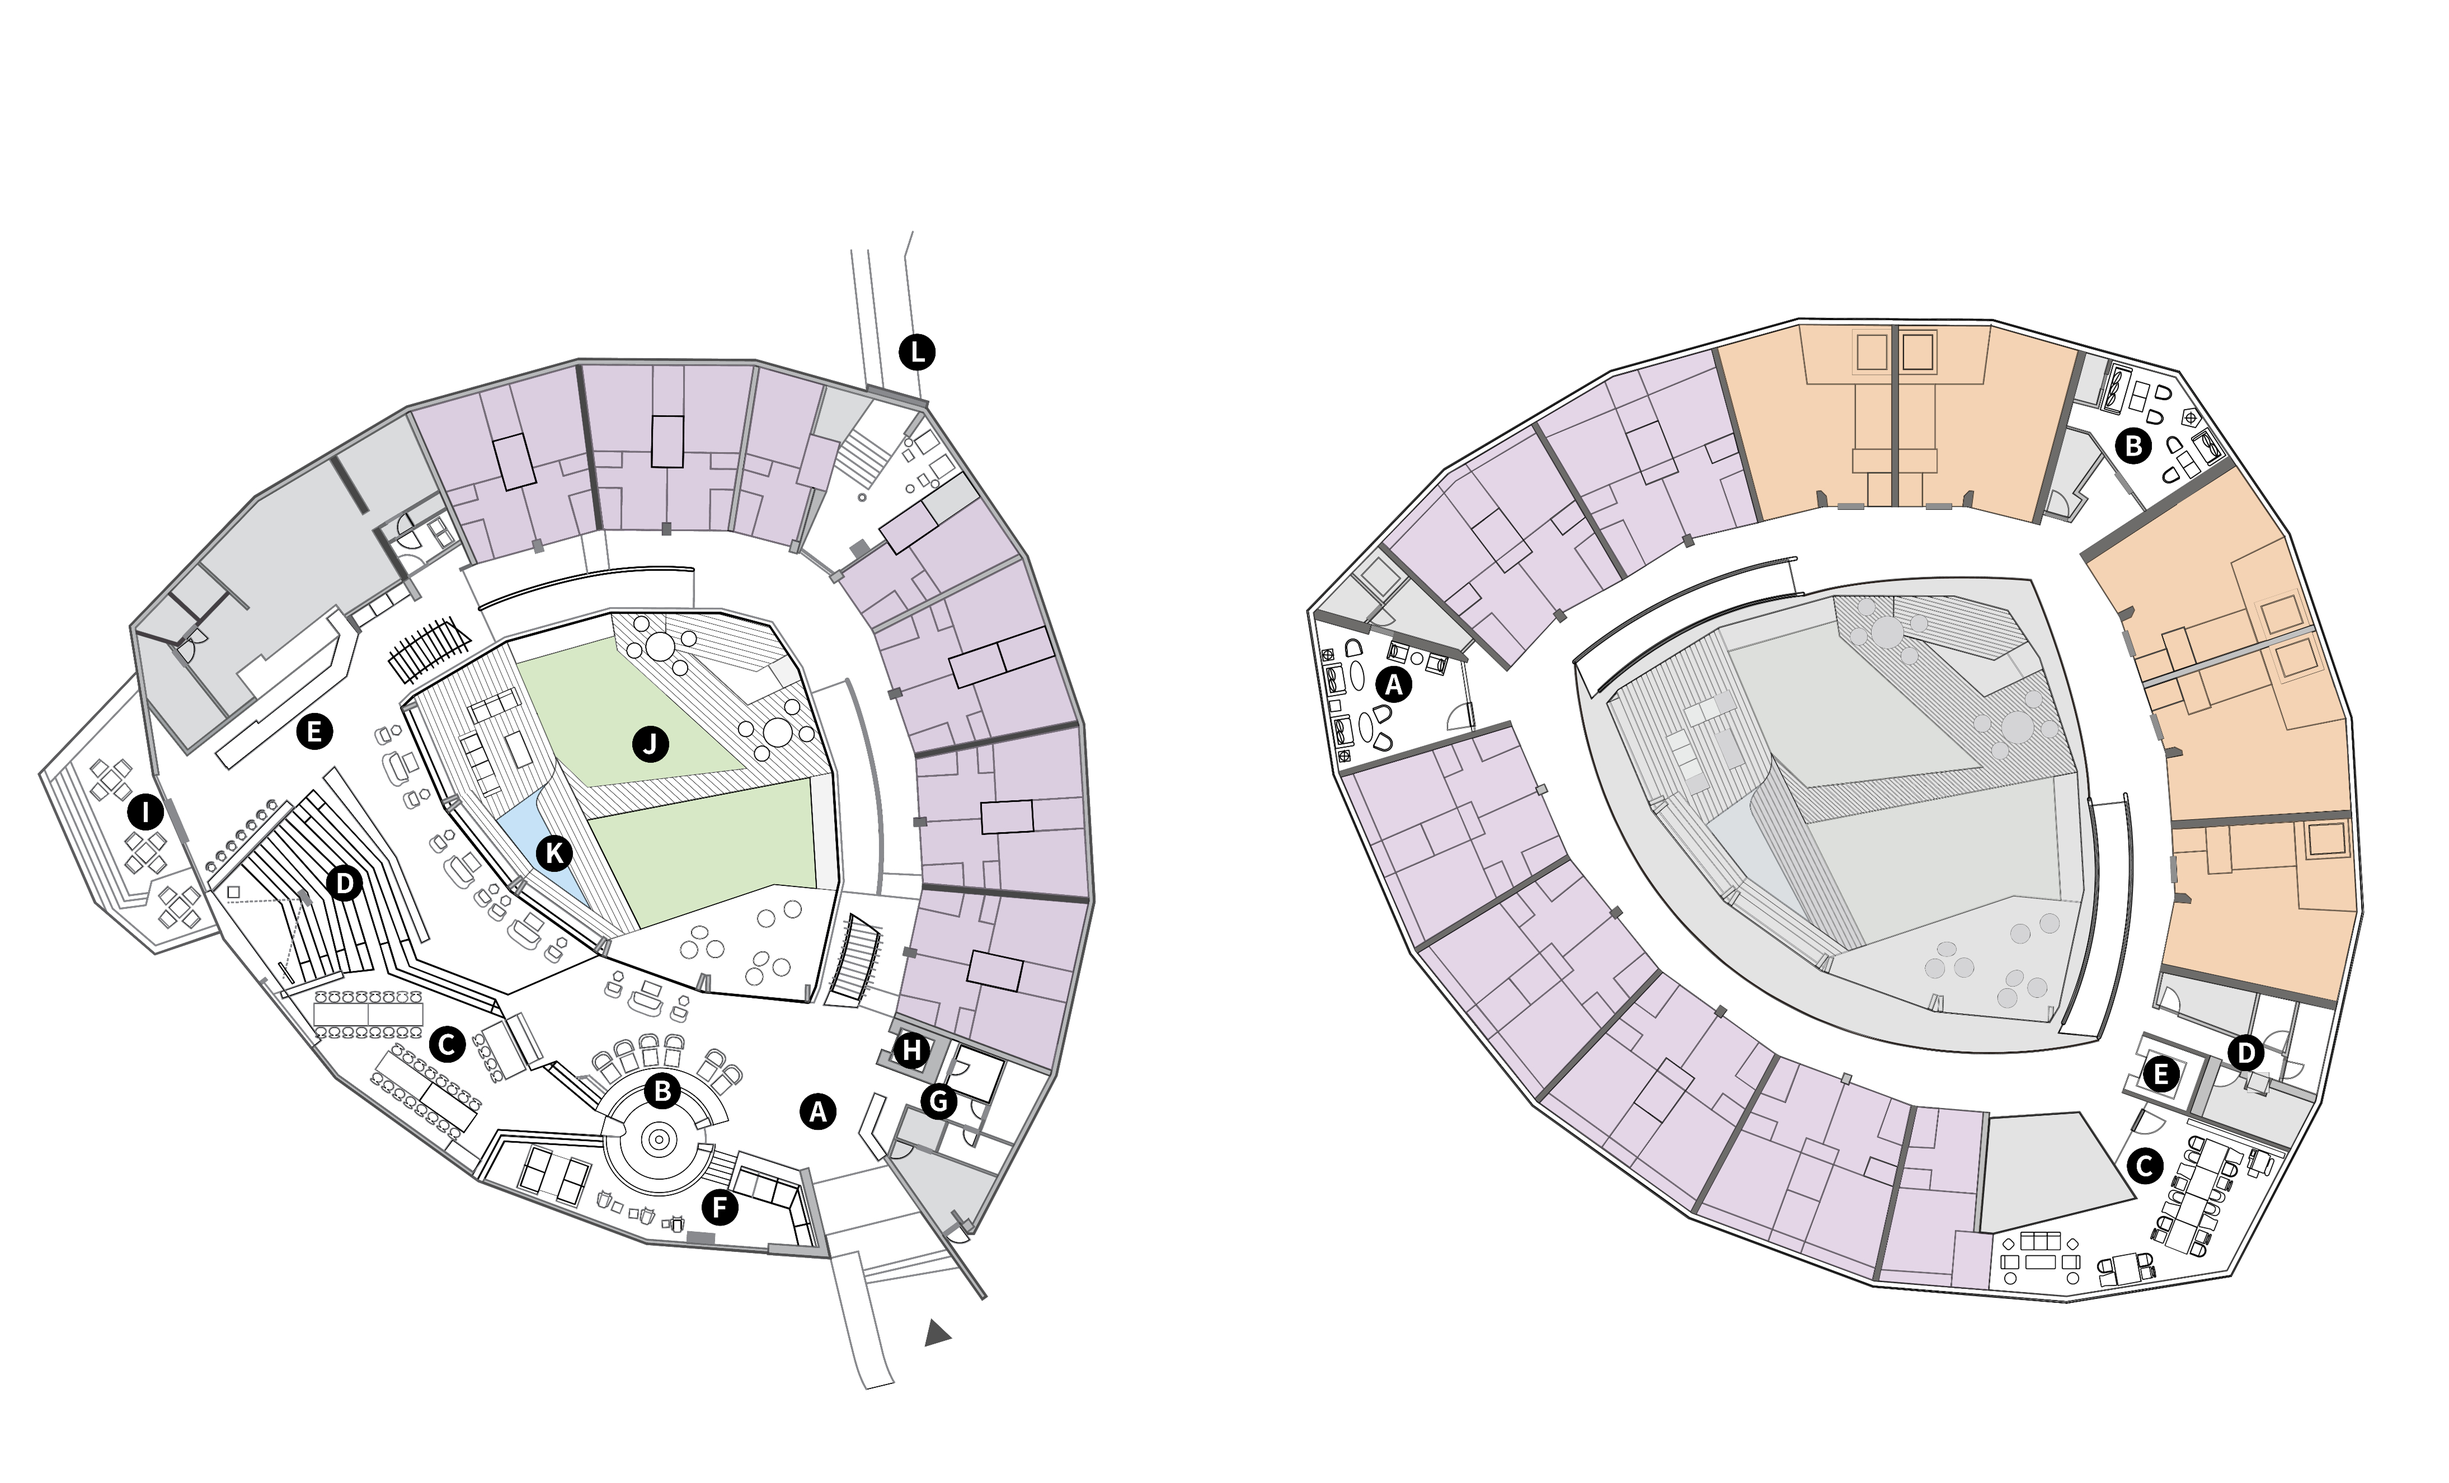
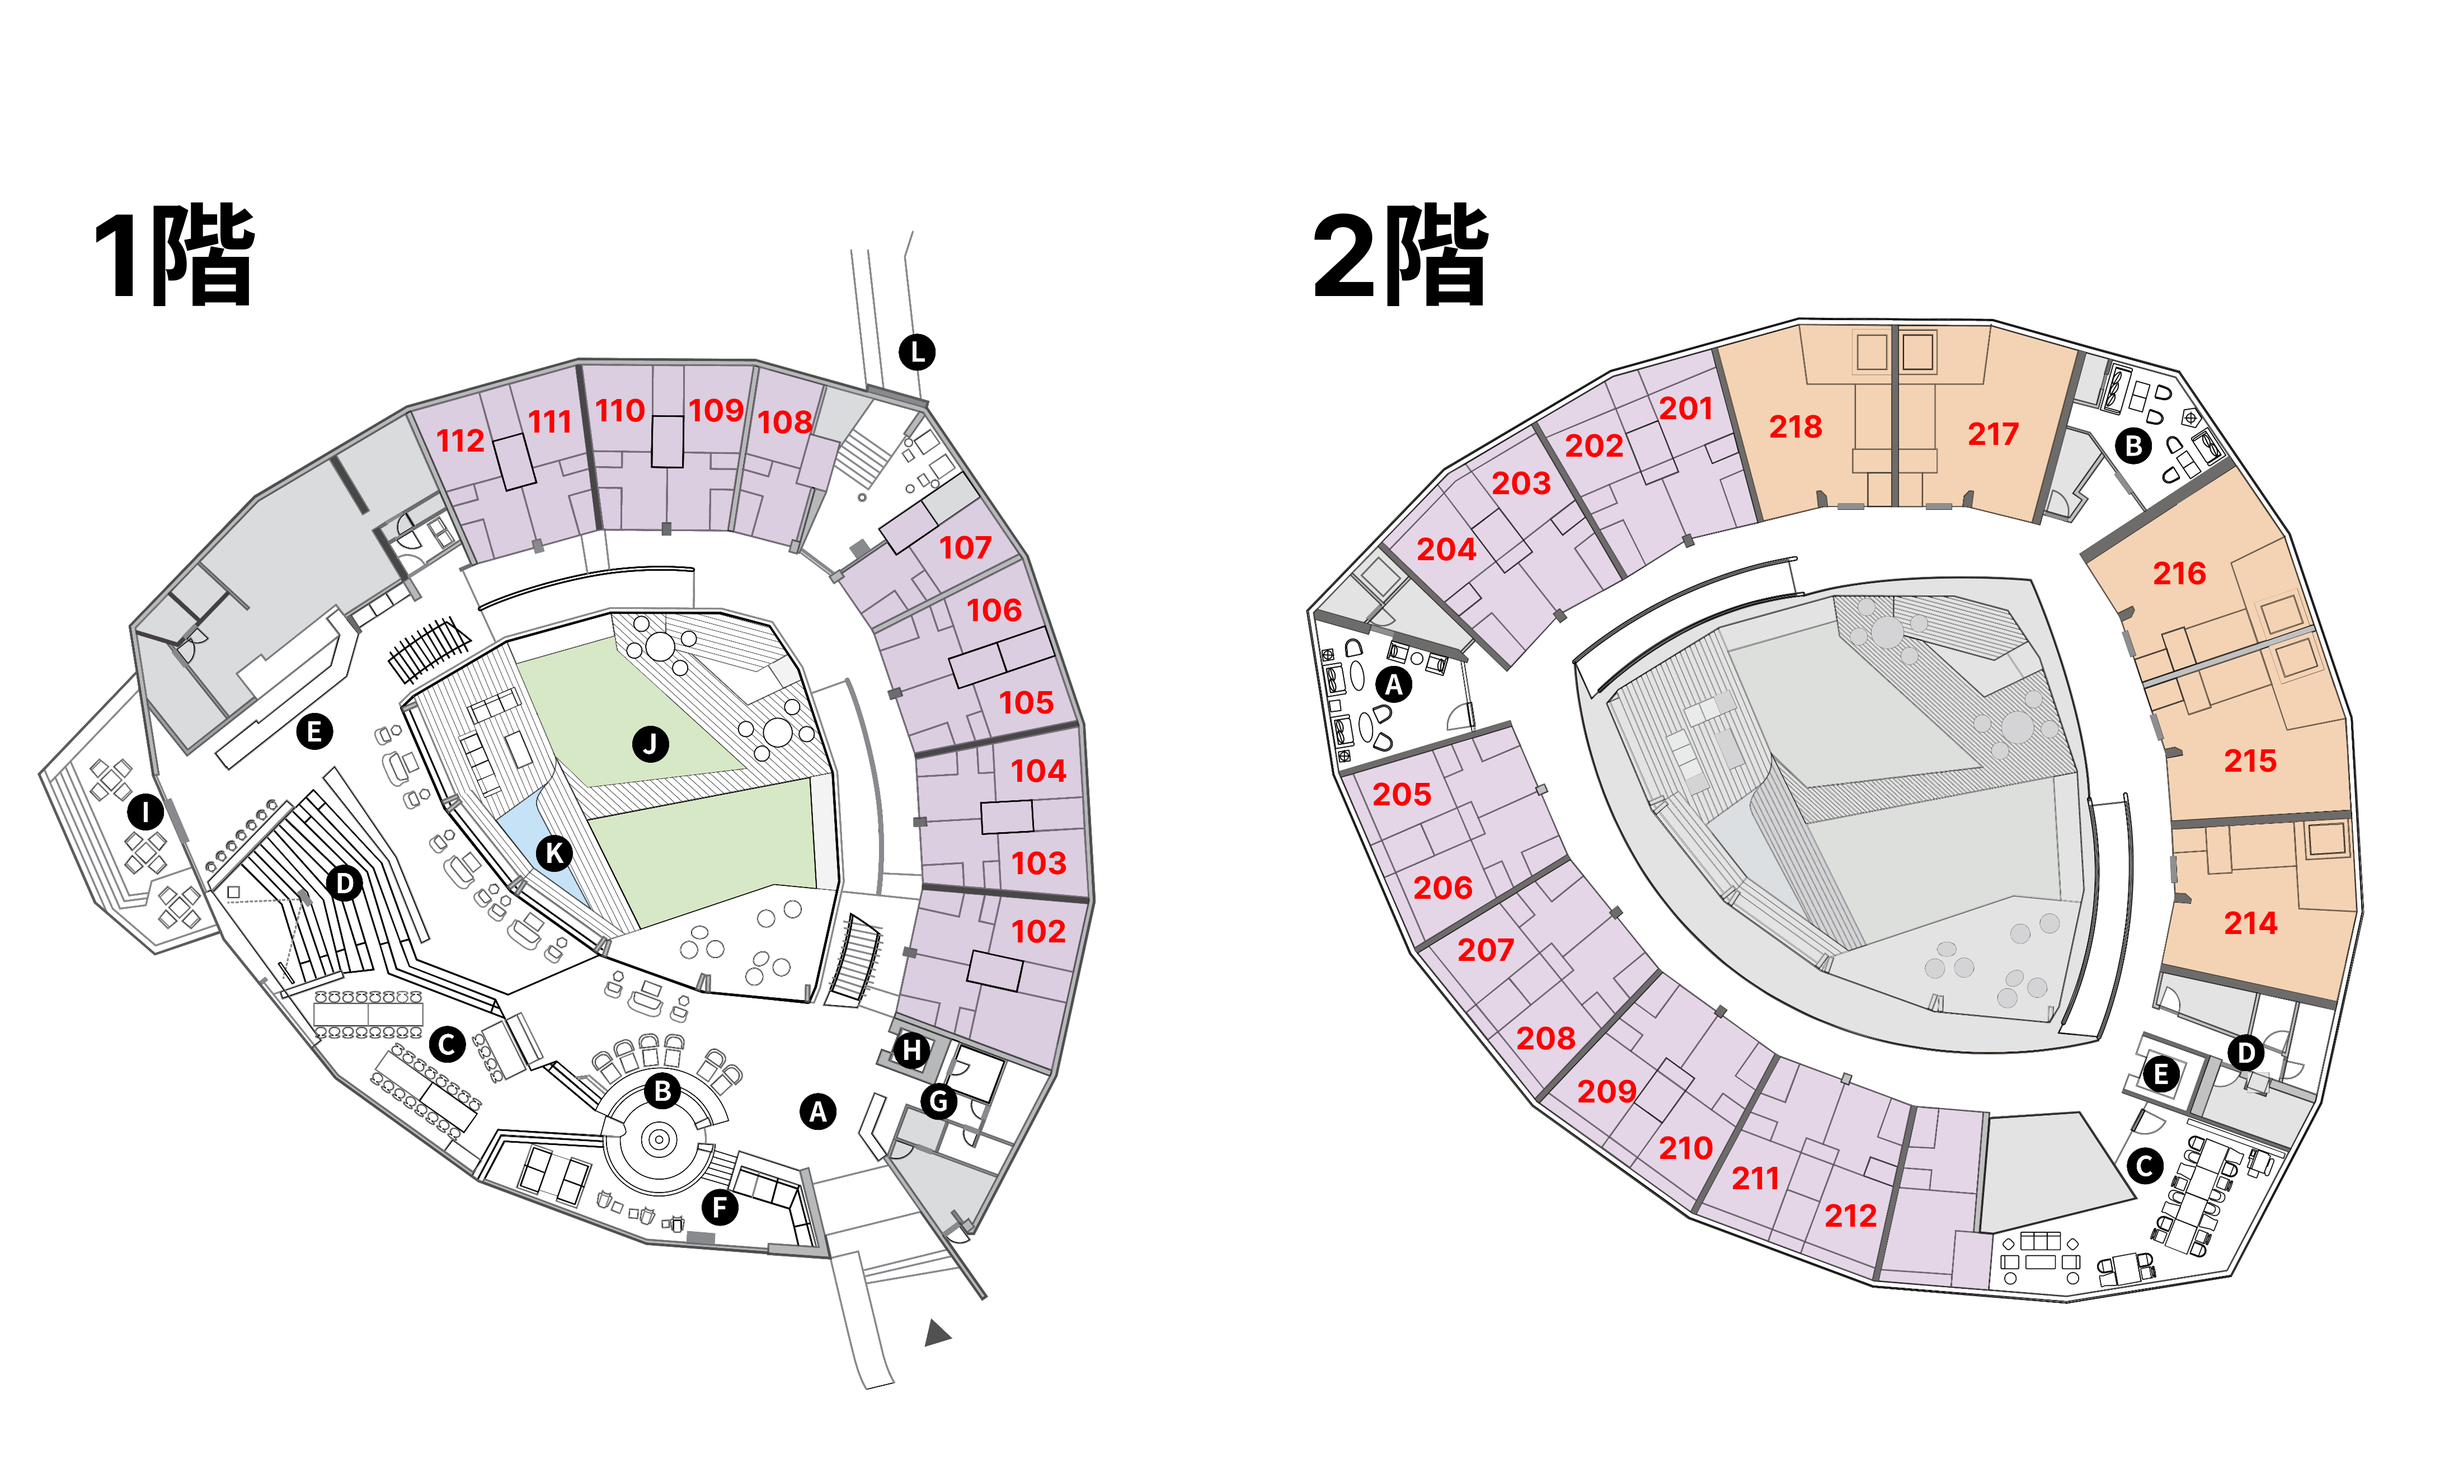
部屋割り: フロアマップを最下部に移動+部屋番号付き画像に差替

diff --git a/index.html b/index.html
@@ -367,10 +367,6 @@
 <div class="rooms-container">
 
 <!-- スイート -->
-<div style="text-align:center;margin-bottom:16px">
-  <img src="floormap.png" alt="フロアマップ" style="max-width:100%;border-radius:8px;box-shadow:0 2px 8px rgba(0,0,0,0.1)">
-</div>
-
 <h2 class="suite-header">スイートルーム（露天風呂付・2名1室）<span class="count">5室 10名</span></h2>
 <div class="room-grid">
   <div class="room-card">
@@ -481,6 +477,10 @@
   </div>
 </div>
 
+
+<div style="text-align:center;margin-top:20px">
+  <img src="floormap.png" alt="フロアマップ（部屋番号付き）" style="max-width:100%;border-radius:8px;box-shadow:0 2px 8px rgba(0,0,0,0.1)">
+</div>
 
 </div><!-- /rooms-container -->
 </div><!-- /rooms -->
